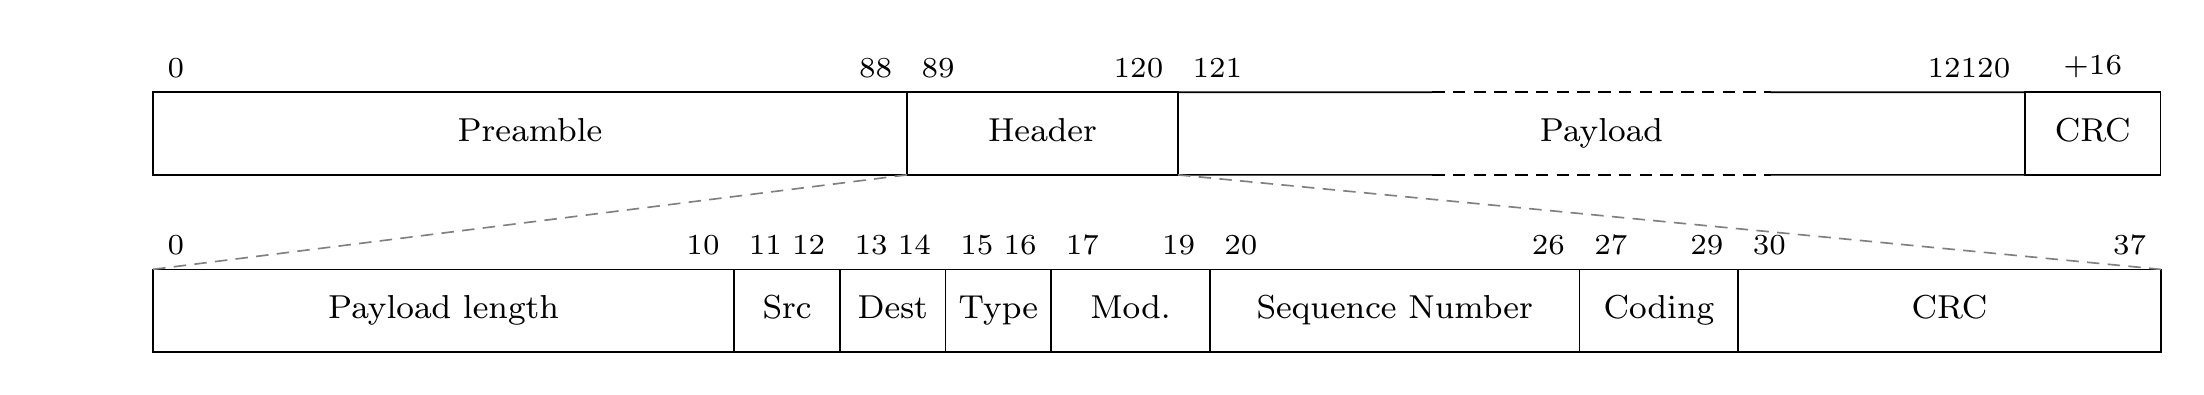
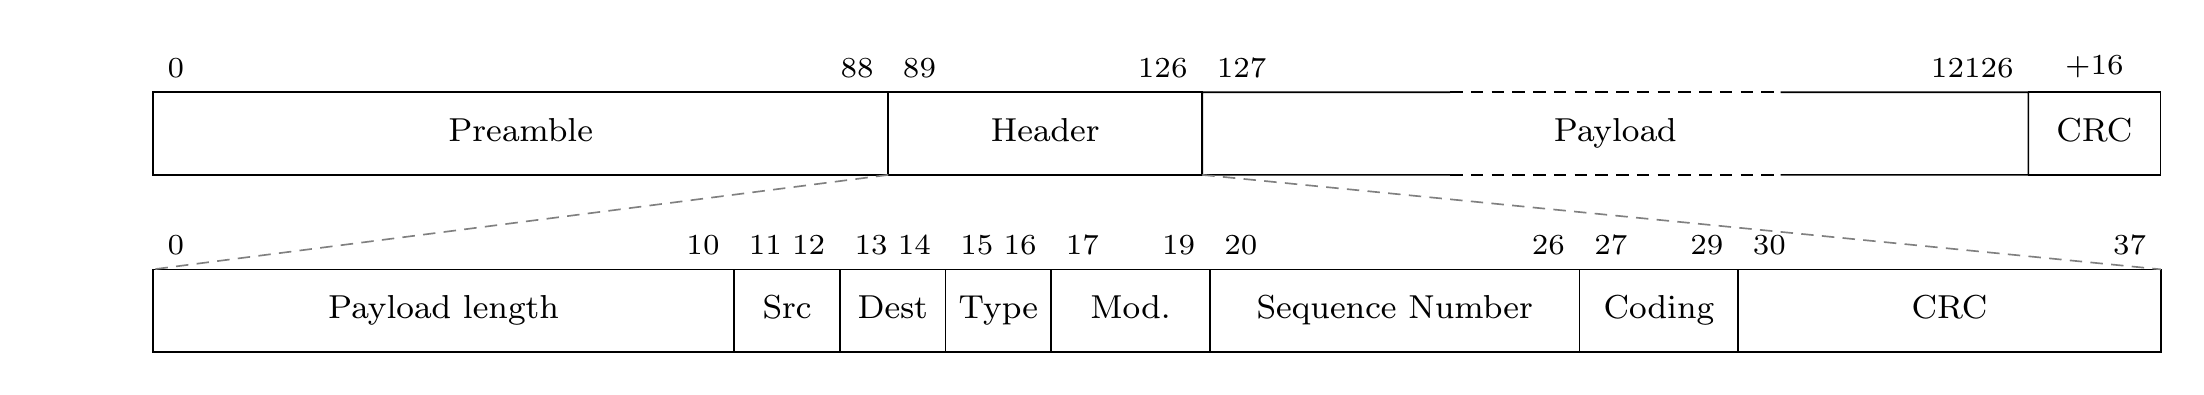
Updated report pdf and frame format figure

diff --git a/report/frame_format.tex b/report/frame_format.tex
@@ -4,7 +4,7 @@
 \begin{document}
 % Top-frame bits: real/visual. Visual = real except for the
 % payload, which is compressed and gets a dashed break.
-\def\PreBits{89}\def\HdrBits{32}
+\def\PreBits{89}\def\HdrBits{38}
 \def\PldBits{12000}\def\PldVisualBits{100}\def\PCRCBits{16}
 \def\BreakFrac{0.40}    % fraction of payload visible-width that's the gap
 % Header detail (bits each)
